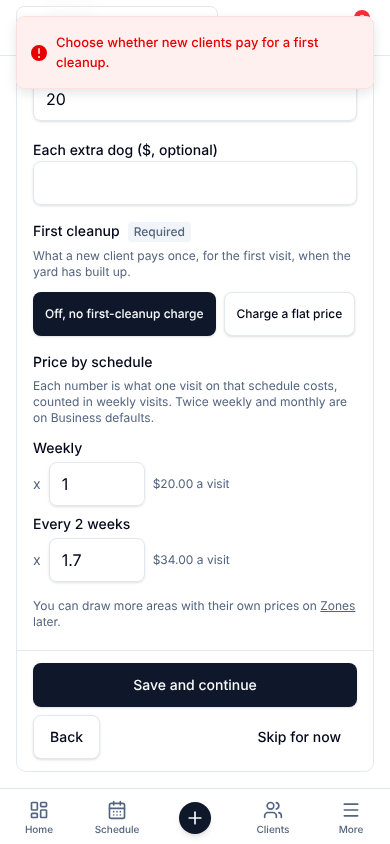
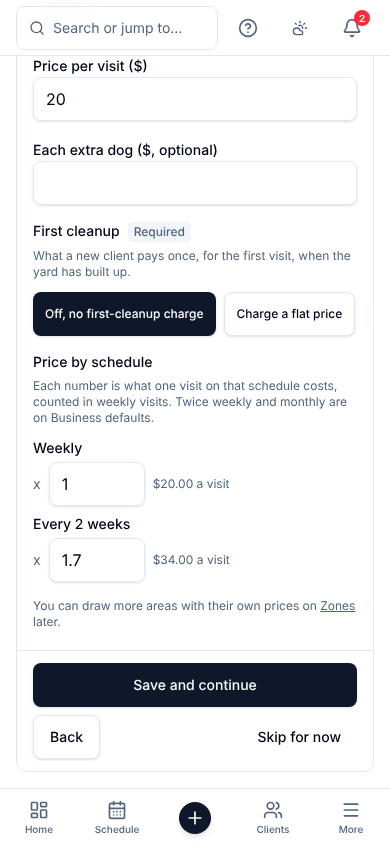
Setup step 2: the refusal's toast goes with its alert once the choice is made (Refs #946)
Review on #957: after a refused save, picking Off took the inline alert
away but left the toast "Choose whether new clients pay for a first
cleanup." on screen, so the refusal still read as standing.

The refusal toast now has one stable id (setup-area-refusal) and is
dismissed as soon as serviceAreaStepProblem() no longer names the thing
it said: Off picked, Flat picked (which names the flat price inline
instead), or the field fixed. A second press replaces it rather than
stacking. A failed server save is toasted by stepSave with no id and is
unchanged. The viewport spec now proves the toast is there after the
refusal and gone after Off at 390 and 1440; the after-* shots are
reshot.

Changed region(s): [[0.0308, 0.0, 0.8308, 0.0924], [0.8923, 0.0, 0.9538, 0.0616]]

diff --git a/src/routes/_authenticated/setup.tsx b/src/routes/_authenticated/setup.tsx
@@ -907,6 +907,9 @@ function PricesPanel({
 /** Step 2's form id, which its Save submits from inside the sticky bar. */
 const SETUP_AREA_FORM_ID = "setup-area";
 
+/** The one toast step 2's refusals use, so it can be taken away once fixed. */
+const SETUP_AREA_REFUSAL_TOAST = "setup-area-refusal";
+
 /** What step 2 keeps on the device while it is typed (#881). */
 type SetupAreaDraft = {
   name: string;
@@ -1142,6 +1145,40 @@ function ServiceAreaPanel({
   const priceCents = priceOk ? Math.round(parseFloat(price) * 100) : null;
   const money = (c: number) => `$${(c / 100).toFixed(2)}`;
 
+  // What the form still needs (null when it can save), and the sentence
+  // beside Save: that, once a press has been refused, else the server's.
+  const problem = serviceAreaStepProblem({
+    price,
+    zip: zipVal,
+    pin,
+    tiered,
+    firstCleanup: firstCleanupVal,
+    firstCleanupPrice,
+    schedulesOk: !!setupMultipliers(storedMults, multDraft),
+  });
+  const shownProblem = pressed > 0 ? problem : null;
+  const message = shownProblem?.message ?? failure;
+
+  // The refusal's toast is the same sentence as the alert, so it goes when
+  // the alert does: once the thing it named is fixed, or something else is
+  // now what is missing (#946 follow-up). One stable id, so a second press
+  // replaces it rather than stacking. A failed SERVER save is toasted by
+  // stepSave with no id, and is not touched here.
+  const toastedProblem = useRef<string | null>(null);
+  const problemMessage = problem?.message ?? null;
+  useEffect(() => {
+    if (toastedProblem.current && toastedProblem.current !== problemMessage) {
+      toast.dismiss(SETUP_AREA_REFUSAL_TOAST);
+      toastedProblem.current = null;
+    }
+  }, [problemMessage]);
+  useEffect(
+    () => () => {
+      if (toastedProblem.current) toast.dismiss(SETUP_AREA_REFUSAL_TOAST);
+    },
+    [],
+  );
+
   if (done && !adding) {
     return (
       <div className="space-y-3">
@@ -1169,20 +1206,6 @@ function ServiceAreaPanel({
     );
   }
 
-  // What the form still needs (null when it can save), and the sentence
-  // beside Save: that, once a press has been refused, else the server's.
-  const problem = serviceAreaStepProblem({
-    price,
-    zip: zipVal,
-    pin,
-    tiered,
-    firstCleanup: firstCleanupVal,
-    firstCleanupPrice,
-    schedulesOk: !!setupMultipliers(storedMults, multDraft),
-  });
-  const shownProblem = pressed > 0 ? problem : null;
-  const message = shownProblem?.message ?? failure;
-
   const saveButton = (
     <Button
       type="submit"
@@ -1207,7 +1230,8 @@ function ServiceAreaPanel({
         if (problem) {
           setFailure(null);
           setPressed((n) => n + 1);
-          toast.error(problem.message);
+          toast.error(problem.message, { id: SETUP_AREA_REFUSAL_TOAST });
+          toastedProblem.current = problem.message;
           return;
         }
         setFailure(null);

diff --git a/tests/viewports/setup-step-2-is-never-under-the-bar.spec.ts b/tests/viewports/setup-step-2-is-never-under-the-bar.spec.ts
@@ -154,6 +154,24 @@ for (const size of [
       hasTouch: size.touch,
     });
 
+    test("picking Off straight after the refusal takes the alert AND the toast away", async ({
+      page,
+    }) => {
+      await openStep2(page);
+      await page.fill("#setup-zone-price", "20");
+      await page.locator('[data-setup-action="save"]').click();
+      const alert = page.locator("[data-setup-error]");
+      const refusalToast = page.locator("[data-sonner-toast]", { hasText: CHOOSE });
+      await expect(alert).toHaveText(CHOOSE);
+      await expect(refusalToast).toHaveCount(1);
+
+      await page.locator("#setup-first-cleanup-off").click();
+      await expect(alert).toHaveCount(0);
+      // Not left to time out: well inside sonner's four seconds.
+      await expect(refusalToast).toHaveCount(0, { timeout: 1500 });
+      await expect(page.locator("[data-sonner-toast]", { hasText: CHOOSE })).toHaveCount(0);
+    });
+
     test("picking Off clears the first-cleanup refusal; picking Flat names what is left", async ({
       page,
     }) => {
@@ -164,10 +182,16 @@ for (const size of [
       await expect(alert).toHaveText(CHOOSE);
       await expect(alert).toHaveAttribute("role", "alert");
       await expect(page).toHaveURL(/step=zones/);
+      // Said twice: beside Save, and in a toast. Proved present first, so its
+      // absence below means something.
+      const refusalToast = page.locator("[data-sonner-toast]", { hasText: CHOOSE });
+      await expect(refusalToast).toHaveCount(1);
 
       // Flat with no price: still refused, and the sentence says so, live.
+      // The toast named the first-cleanup choice, which is now made: it goes.
       await page.locator("#setup-first-cleanup-flat").click();
       await expect(alert).toHaveText(FLAT_PRICE);
+      await expect(refusalToast).toHaveCount(0);
 
       // Off: nothing left to refuse, so the sentence goes. No second press.
       await page.locator("#setup-first-cleanup-off").click();
@@ -177,6 +201,7 @@ for (const size of [
       );
       await expect(alert).toHaveCount(0);
       await expect(page.locator("[data-setup-first-cleanup-unchosen]")).toHaveCount(0);
+      await expect(refusalToast).toHaveCount(0);
 
       // And a field emptied after a refusal is named again, live.
       await page.fill("#setup-zone-price", "");

diff --git a/tests/setup-step-2-refusal-reads-live-and-clears-the-bar.test.tsx b/tests/setup-step-2-refusal-reads-live-and-clears-the-bar.test.tsx
@@ -87,6 +87,19 @@ describe("step 2's refusal is read live from the form", () => {
     expect(panel).not.toMatch(/setFailure\(message\)/);
     expect(panel).not.toMatch(/\brefuse\(/);
   });
+
+  it("takes the refusal's toast away with it, and leaves a server failure's toast alone", () => {
+    // One stable id, raised only by a refusal...
+    expect(panel).toMatch(/toast\.error\(problem\.message, \{ id: SETUP_AREA_REFUSAL_TOAST \}\)/);
+    expect(panel.match(/toast\.error\(/g)).toHaveLength(1);
+    // ...and dismissed once the problem it named is no longer the problem.
+    expect(panel).toMatch(
+      /toastedProblem\.current !== problemMessage\)[\s\S]{0,80}toast\.dismiss\(SETUP_AREA_REFUSAL_TOAST\)/,
+    );
+    expect(panel).toMatch(/\}, \[problemMessage\]\);/);
+    // Server failures go through stepSave's own toast, which has no such id.
+    expect(panel).toMatch(/onFailed: setFailure/);
+  });
 });
 
 describe("the sticky bar tells the browser what it covers", () => {

diff --git a/scripts/screenshots/issue-946-followups.spec.ts b/scripts/screenshots/issue-946-followups.spec.ts
@@ -108,10 +108,15 @@ for (const size of [
         .waitFor({ state: "detached", timeout: 1500 })
         .catch(() => {});
       await page
+        .locator("[data-sonner-toast]", { hasText: "first cleanup" })
+        .waitFor({ state: "detached", timeout: 1500 })
+        .catch(() => {});
+      await page
         .locator("[data-setup-area-form] [data-setup-first-cleanup]")
         .scrollIntoViewIfNeeded();
       await shoot(page, size.width, "off-picked-after-refusal", {
         alertText: (await page.locator("[data-setup-error]").allTextContents())[0] ?? null,
+        toastTexts: await page.locator("[data-sonner-toast]").allTextContents(),
       });
     });
   });

diff --git a/tests/a-setup-area-that-did-not-save-says-so.test.ts b/tests/a-setup-area-that-did-not-save-says-so.test.ts
@@ -125,7 +125,7 @@ describe("setup step 2, from source", () => {
     const submit = panel.slice(panel.indexOf("onSubmit={"), panel.indexOf("m.mutate();"));
     expect(panel).toMatch(/const problem = serviceAreaStepProblem\(/);
     expect(submit).toMatch(
-      /if \(problem\) \{[\s\S]*setPressed\([\s\S]*toast\.error\(problem\.message\)/,
+      /if \(problem\) \{[\s\S]*setPressed\([\s\S]*toast\.error\(problem\.message[,)]/,
     );
     expect(panel).toMatch(/const message = shownProblem\?\.message \?\? failure;/);
     expect(panel).toMatch(/\{message && \(\s*<p\s+ref=\{failureRef\}/);
